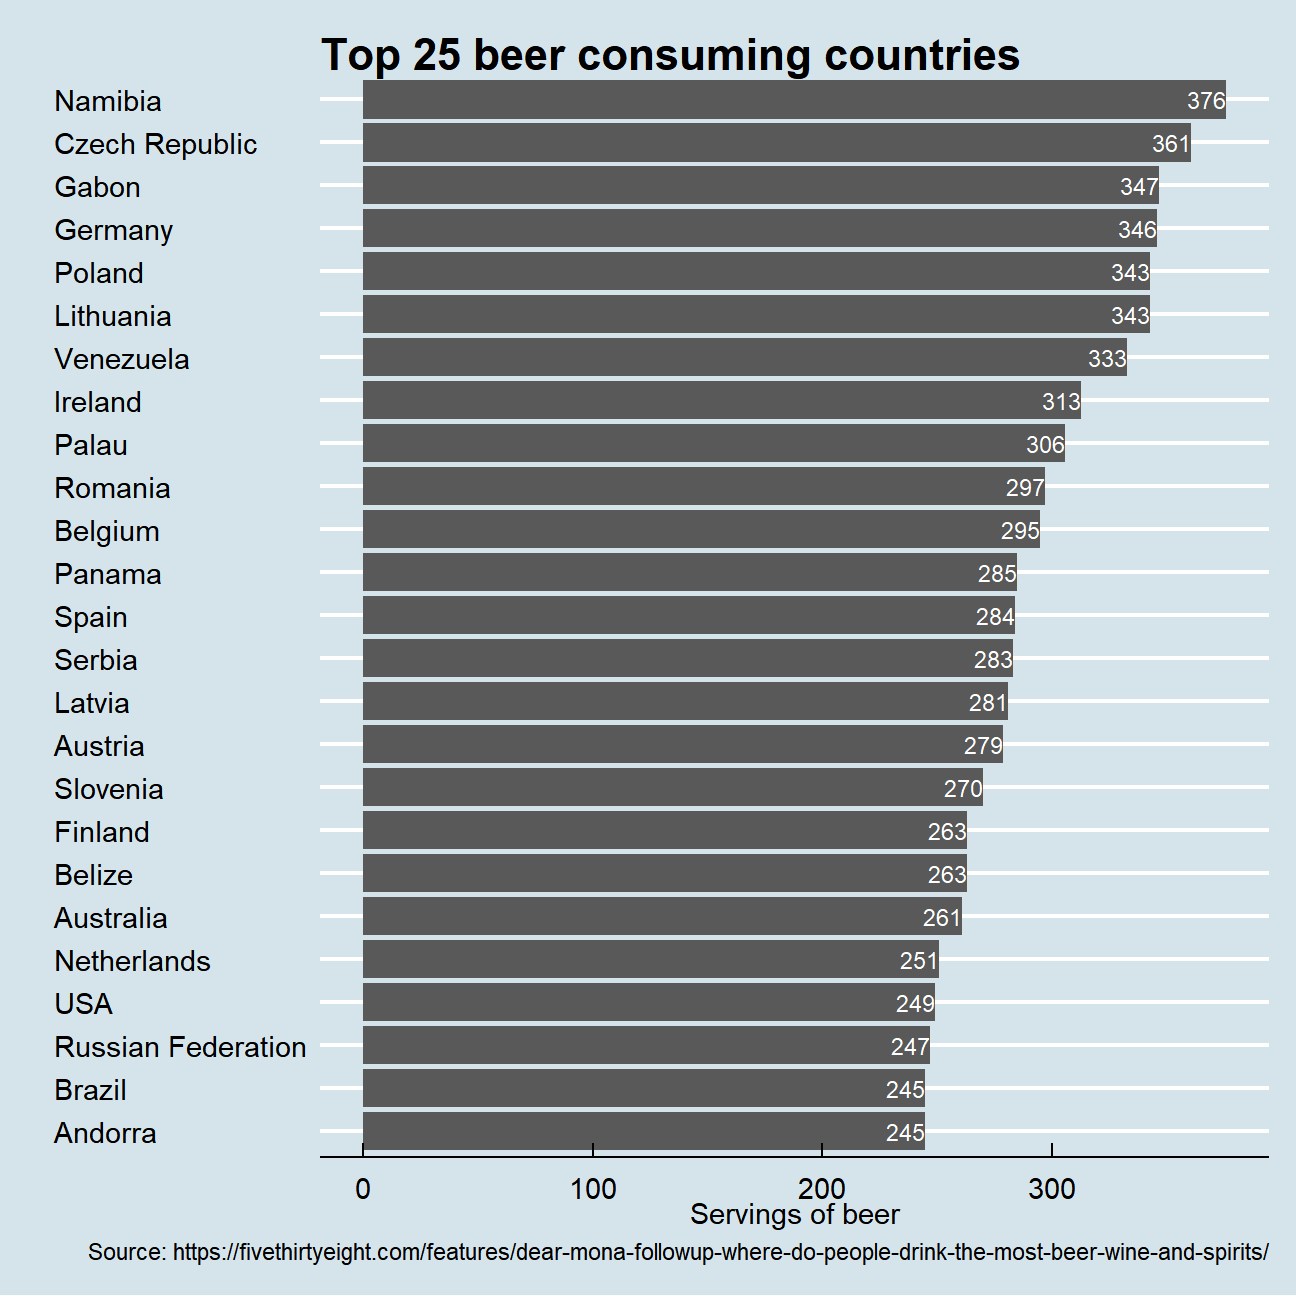
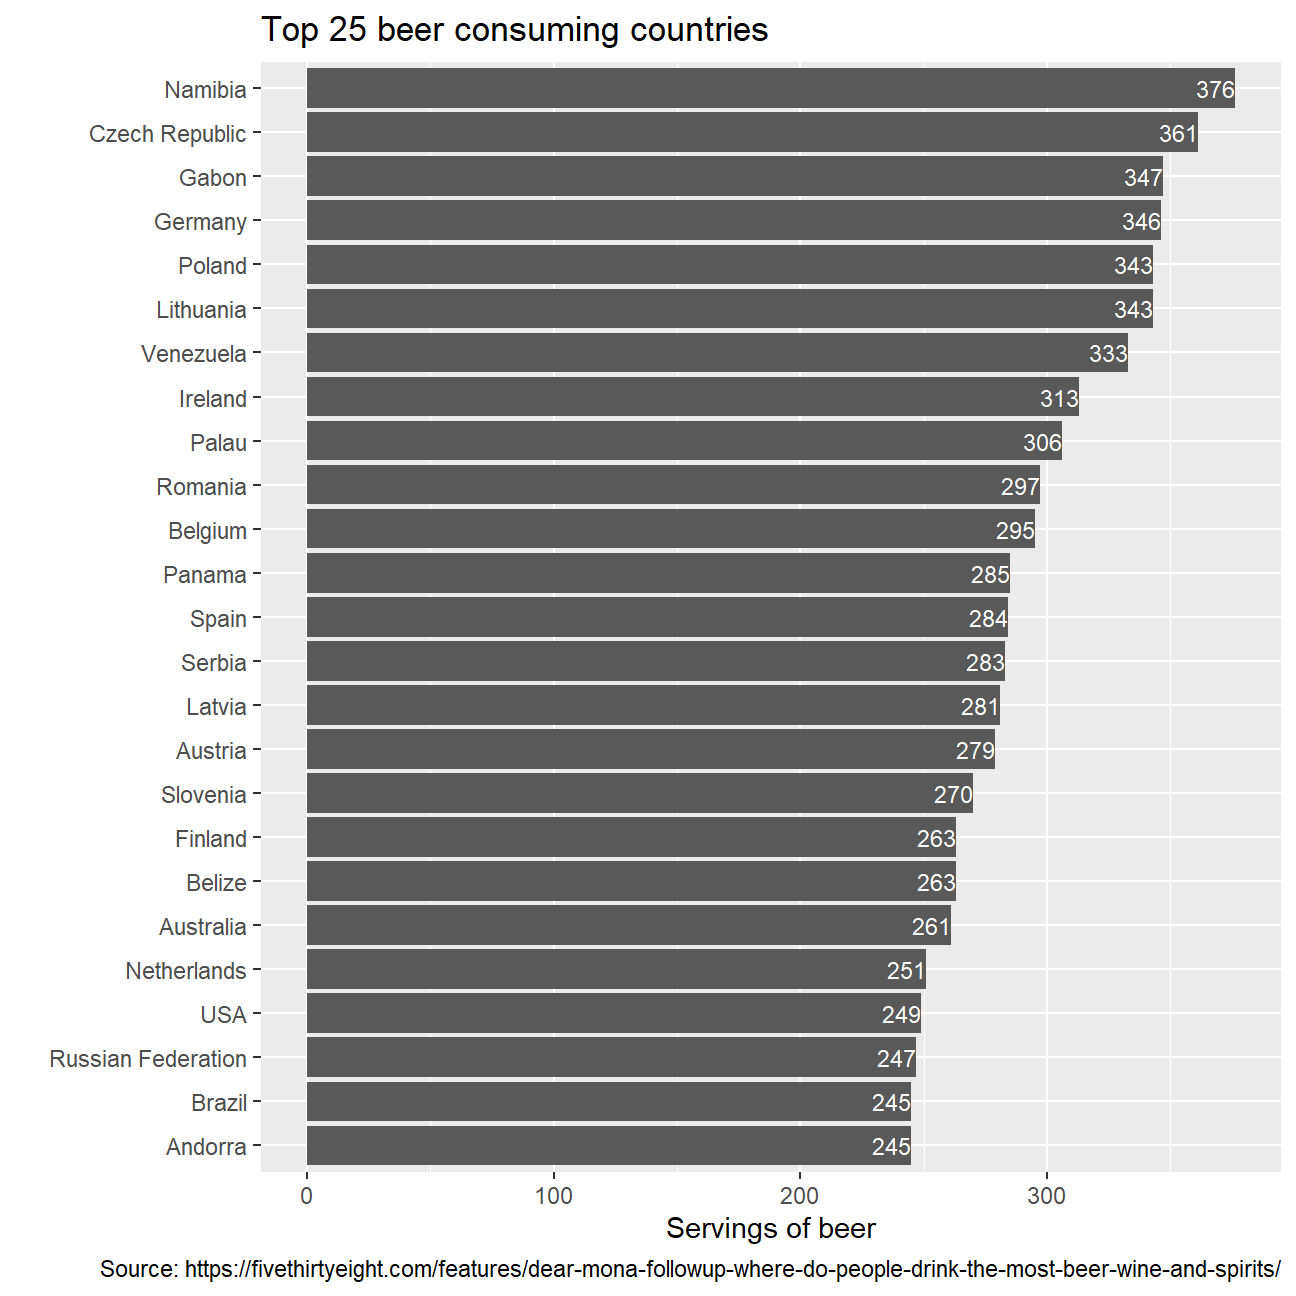
finish

diff --git a/content/projects/project2.html b/content/projects/project2.html
@@ -1,5 +1,5 @@
 ---
-title: "Yield Curve inversion"
+title: "Yield Curve Inversion"
 date: '2020-10-20'
 description: 'Advanced data mining with the tidyquant package'
 draft: no
@@ -19,8 +19,8 @@ categories:
 <h1>Yield Curve inversion</h1>
 <p>At the top of this page,different typies of yield curves is showed and the strangest line will be the inversion curve.</p>
 <p>Every so often, we hear warnings from commentators on the “inverted yield curve” and its predictive power with respect to recessions. An explainer what a <a href="https://www.reuters.com/article/us-usa-economy-yieldcurve-explainer/explainer-what-is-an-inverted-yield-curve-idUSKBN1O50GA">inverted yield curve is can be found here</a>. If you’d rather listen to something, here is a great podcast from <a href="https://www.podbean.com/media/share/dir-4zgj9-6aefd11">NPR on yield curve indicators</a></p>
-<p>In this project we will look at US data and use the <a href="https://fred.stlouisfed.org/">FRED database</a> to download historical yield curve rates, and plot the yield curves since 1999 to see when the yield curves flatten. If you want to know more, a very nice article that explains the <a href="https://fredblog.stlouisfed.org/2018/10/the-data-behind-the-fear-of-yield-curve-inversions/">yield curve is and its inversion can be found here</a>. At the end of this chllenge you should produce this chart</p>
-<p>First, we will use the <code>tidyquant</code> package to download monthly rates for different durations.</p>
+<p>In this project we will look at US data and use the <a href="https://fred.stlouisfed.org/">FRED database</a> to download historical yield curve rates, and plot the yield curves since 1999 to see when the yield curves flatten. If you want to know more, a very nice article that explains the <a href="https://fredblog.stlouisfed.org/2018/10/the-data-behind-the-fear-of-yield-curve-inversions/">yield curve is and its inversion can be found here</a>. <strong>At the end of this chllenge I will produce an interesting chart to better explain this topic.</strong></p>
+<p>First, using the <code>tidyquant</code> package to download monthly rates for different durations.</p>
 <pre class="r"><code># Get a list of FRED codes for US rates and US yield curve; choose monthly frequency
 # to see, eg., the 3-month T-bill https://fred.stlouisfed.org/series/TB3MS
 tickers &lt;- c(&#39;TB3MS&#39;, # 3-month Treasury bill (or T-bill)
@@ -190,23 +190,20 @@ glimpse(df)</code></pre>
 ## 1456:   GS10 2020-07-01  0.62 10-Year Treasury Rate      10y 2020
 ## 1457:   GS10 2020-08-01  0.65 10-Year Treasury Rate      10y 2020
 ## 1458:   GS10 2020-09-01  0.68 10-Year Treasury Rate      10y 2020</code></pre>
-<p>According to <a href="https://en.wikipedia.org/wiki/List_of_recessions_in_the_United_States">Wikipedia’s list of recession in the United States</a>, since 1999 there have been two recession in the US: between Mar 2001–Nov 2001 and between Dec 2007–June 2009.</p>
-<p>Does the yield curve seem to flatten before these recessions?</p>
-<ul>
-<li>Not exactly, because the yield curve moves in tandem with recessions, and it is impossible to judge the sequence of them.</li>
-</ul>
-<p>Can a yield curve flattening really mean a recession is coming in the US?</p>
-<ul>
-<li>According to the expectation theory of the term structure, the shape of the term structure includes the market’s expectation of the future real interest rate and inflation level. Under the assumption of rational expectations, the government bond yield curve can be used to predict the future macroeconomic operation. In most cases, the economy is about to enter a recession and depression when the Treasury yield curve shows that short-term interest rates are higher than long-term rates. On the contrary, when the Treasury yield curve shows the spread between long-term interest rate and short-term interest rate, it indicates that the economy is going to the stage of prosperity and recovery. However, it is hard to definitely say a yield curve flattening really mean a recession is coming in the US.</li>
-</ul>
-<p>Since 1999, when did short-term (3 months) yield more than longer term (10 years) debt?</p>
-<ul>
-<li>Around 2001-2002, 2006-2007 and mid2018-2019.</li>
-</ul>
-<p>Produce our final fabulous plot:</p>
-<pre class="r"><code>#target
-knitr::include_graphics(here::here(&quot;images&quot;, &quot;yield_curve_challenge.png&quot;), error = FALSE)</code></pre>
-<p><img src="D:/0 LBS/First term/DATA FOR FINANCE/my_new_website/images/yield_curve_challenge.png" style="display: block; margin: auto;" /></p>
+<div id="some-questions-and-analysis" class="section level4">
+<h4>Some questions and analysis</h4>
+<p>Does the yield curve seem to flatten before these recessions?
+- Not exactly, because the yield curve moves in tandem with recessions, and it is impossible to judge the sequence of them.</p>
+<p>Can a yield curve flattening really mean a recession is coming in the US?
+- According to the expectation theory of the term structure, the shape of the term structure includes the market’s expectation of the future real interest rate and inflation level. Under the assumption of rational expectations, the government bond yield curve can be used to predict the future macroeconomic operation.
+- In most cases, the economy is about to enter a recession and depression when the Treasury yield curve shows that short-term interest rates are higher than long-term rates. On the contrary, when the Treasury yield curve shows the spread between long-term interest rate and short-term interest rate, it indicates that the economy is going to the stage of prosperity and recovery. However, it is hard to definitely say a yield curve flattening really mean a recession is coming in the US.</p>
+<p>Since 1999, when did short-term (3 months) yield more than longer term (10 years) debt?
+- Around 2001-2002, 2006-2007 and mid2018-2019.</p>
+</div>
+</div>
+</div>
+<div id="produce-the-final-fabulous-plot" class="section level2">
+<h2>Produce the final fabulous plot</h2>
 <pre class="r"><code># get US recession dates after 1946 from Wikipedia 
 # https://en.wikipedia.org/wiki/List_of_recessions_in_the_United_States
 
@@ -265,7 +262,6 @@ geom_rect(xmin=as.numeric(as.Date(c(&quot;1973-11-01&quot;))),xmax=as.numeric(as
        x= &quot;&quot;, y = &quot;Difference (10 year - 3 month) yield in %&quot;)
   
 Inversion</code></pre>
-<p><img src="/projects/project2_files/figure-html/setup_US-recessions-2.png" width="648" style="display: block; margin: auto;" /></p>
-</div>
+<p><img src="/projects/project2_files/figure-html/setup_US-recessions-1.png" width="648" style="display: block; margin: auto;" /></p>
 </div>
 </div>

diff --git a/content/projects/project1.html b/content/projects/project1.html
@@ -1,7 +1,7 @@
 ---
 title: "Alcohol Analysis"
 date: '2020-10-20'
-description: ''
+description: 'Advanced data analysis with the tidyverse package'
 draft: no
 image: alcohol02.jpg
 keywords: ''
@@ -173,7 +173,7 @@ data(drinks)</code></pre>
   slice_max(n=25,beer_servings) %&gt;% 
   ggplot(mapping = aes(y = reorder(country,beer_servings), x = beer_servings)) +
   geom_col()+
-  theme_economist()+
+  theme()+
   labs(
     x = &quot;Servings of beer&quot;,
     y= &quot;&quot; ,
@@ -195,7 +195,7 @@ data(drinks)</code></pre>
   slice_max(n=25,wine_servings) %&gt;% 
   ggplot(mapping = aes(y = reorder(country,wine_servings), x = wine_servings)) +
   geom_col()+
-  theme_economist()+
+  theme()+
   labs(
     x = &quot;Servings of wine&quot;,
     y= &quot;&quot; ,
@@ -216,7 +216,7 @@ data(drinks)</code></pre>
   slice_max(n=25,spirit_servings) %&gt;% 
   ggplot(mapping = aes(y = reorder(country,spirit_servings), x = spirit_servings)) +
   geom_col()+
-  theme_economist()+
+  theme()+
   labs(
     x = &quot;Servings of spirit&quot;,
     y= &quot;&quot; ,

diff --git a/content/blogs/blog2.md b/content/blogs/blog2.md
@@ -10,9 +10,16 @@ keywords: ""
 slug: blog2
 title: Beautiful Journey to Lake Baikal
 ---
+# My Journey
 
-**Last year I went to Russia and spent a fabulous time by Lake Baikal. I followed in the footsteps of poet Kenton M. Stewart and his poem:**
+**Last year I went to Russia and spent a fabulous time by Lake Baikal.**
 
+**I followed in the footsteps of poet Kenton M. Stewart and his poem: _Lake Baikal_.**
+
+***
+
+# Lake Baikal
+### Kenton M. Stewart
 
 I tried to get a sense of the wonder of Baikal,
 but its majesty was just too great for words to fit it all.
@@ -38,3 +45,6 @@ So how can we preserve Baikal and show we really care?
 That’s a question that will haunt you… once you have been there.
 Seasons come and seasons go in ancient Lake Baikal.
 I’m in wonder of that treasure. I’m in love with Lake Baikal.
+
+***
+

diff --git a/content/blogs/blog1.md b/content/blogs/blog1.md
@@ -12,9 +12,13 @@ title: About Me
 ---
 
 
-Hello everyone! Nice to meet you here! I am Jiaying Xu. 
+Hello everyone! Nice to meet you here! 
 
-I graduated from Peking University, China. Currently, I am a MFA student at London Business School. 
+I am Jiaying Xu from China. 
+
+I graduated from Peking University, majoring in Finance. 
+
+Currently, I am a MFA student at London Business School. 
 
 This is my personal portfolio website and I will share my life stories and upload recent projects here! 
 

diff --git a/content/blogs/blog3.md b/content/blogs/blog3.md
@@ -11,4 +11,4 @@ slug: blog3
 title: Oriental Gourmet
 ---
 
-I love Oriental Food! Chinese dishes, Japanese cuisine, and Thai cuisine are my favorites!
+I love Oriental Food! Chinese dishes, Japanese cuisine, and Thai food are my favorites!

diff --git a/content/blogs/_index.md b/content/blogs/_index.md
@@ -6,4 +6,4 @@ slug: blogs
 title: My Lifestyle
 ---
 
-My lifestyle: my travel, my leisure time, and Oriental Gourmet.
+My lifestyle: my journey, my leisure time and oriental gourmet.
